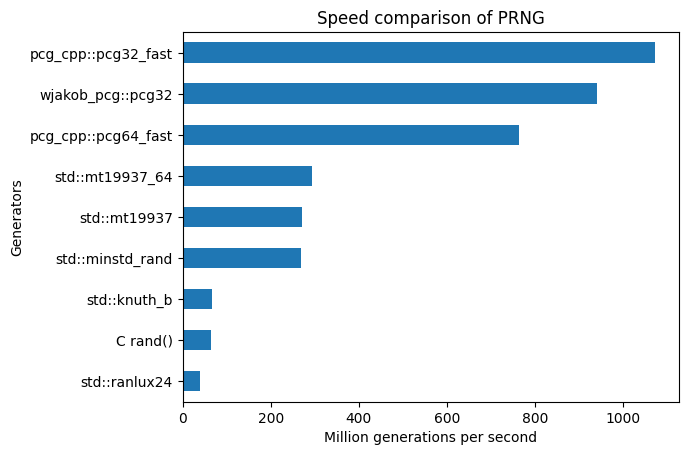
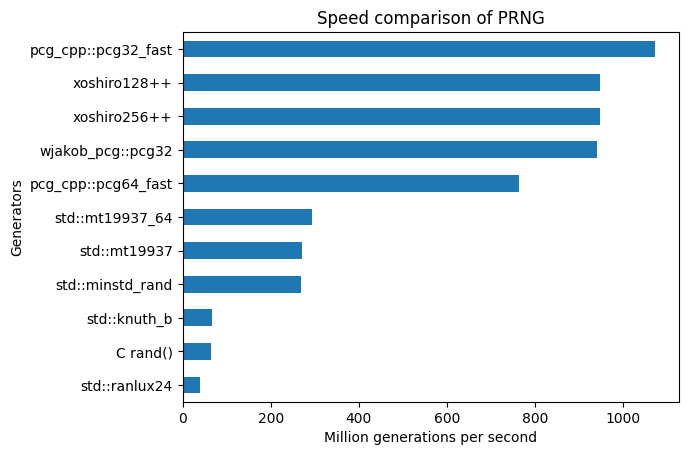
Added xoshiro128++ and xoshiro256++

diff --git a/src/xoshiro.cpp b/src/xoshiro.cpp
@@ -1,0 +1,20 @@
+#include <benchmark/benchmark.h>
+
+#include <xoshiro.h>
+
+using namespace Xoshiro;
+
+template <typename G>
+static void xoshiro(benchmark::State& state) {
+	G gen;
+	for (auto _:state) {
+		auto v = gen();
+		benchmark::DoNotOptimize(v);
+		benchmark::ClobberMemory();
+	}
+	state.SetItemsProcessed(state.iterations());
+}
+
+BENCHMARK(xoshiro<Xoshiro128PP>);
+BENCHMARK(xoshiro<Xoshiro256PP>);
+
